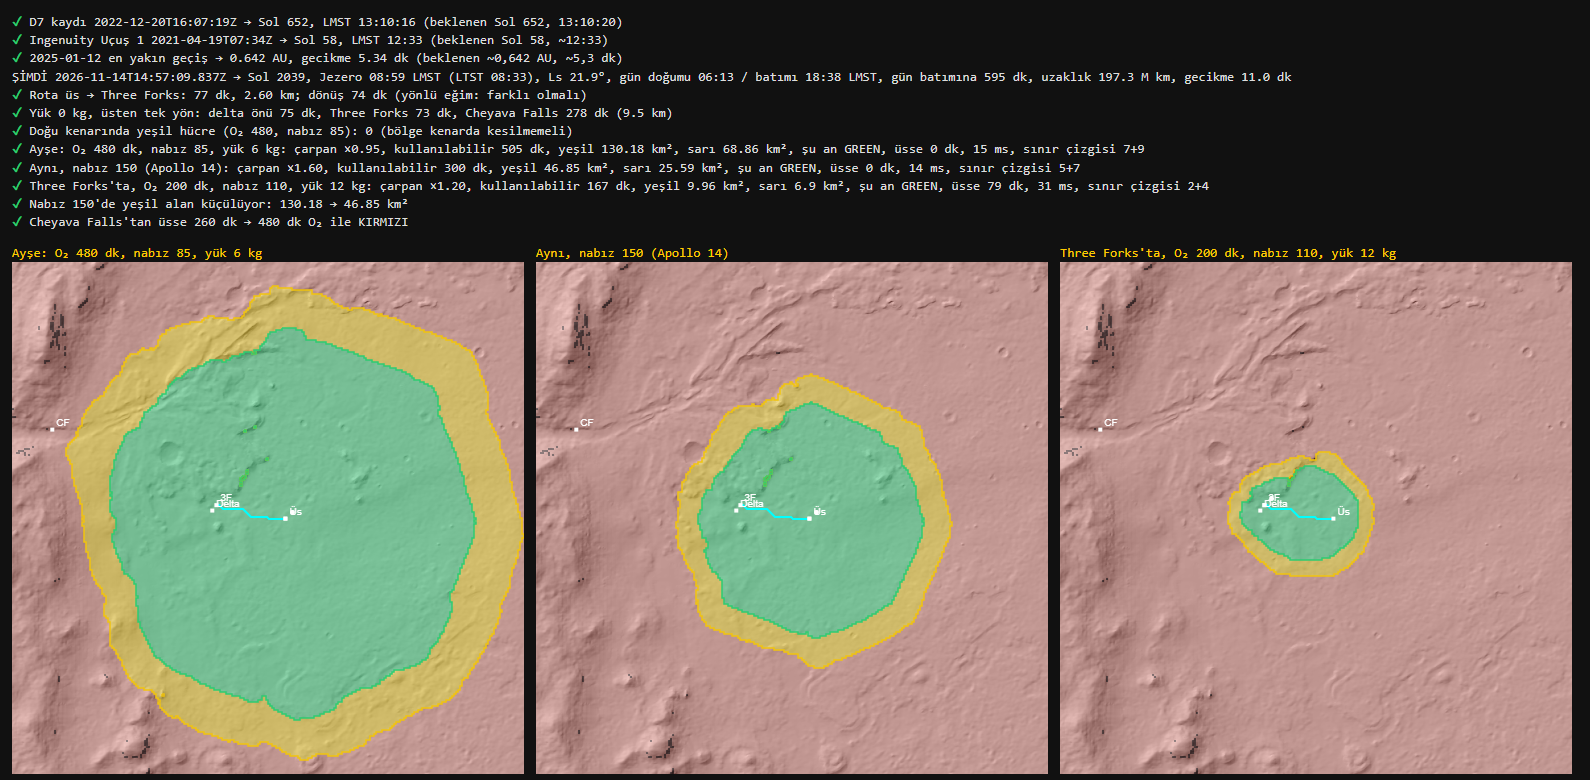
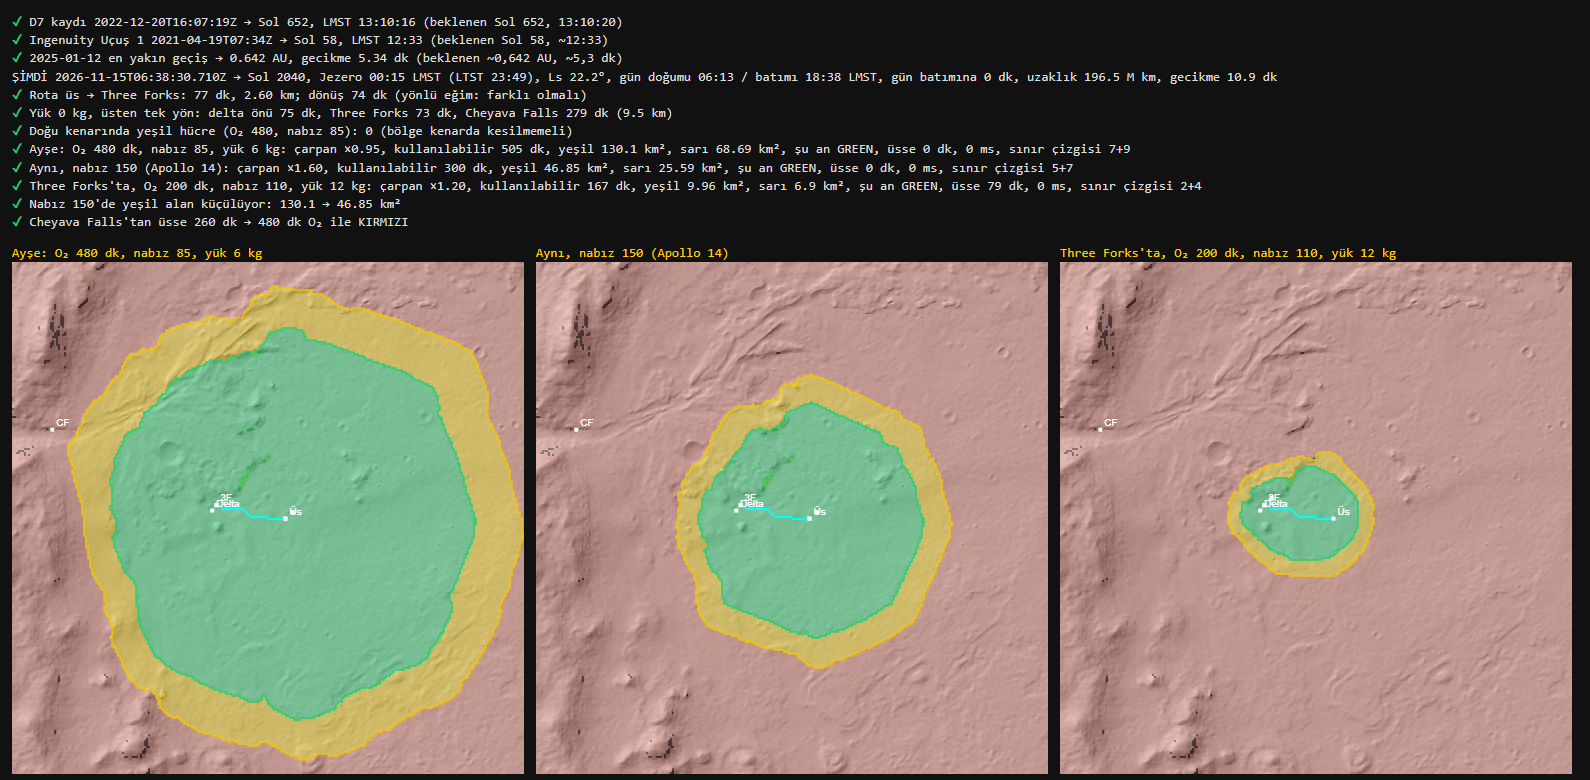
Teslim: form cevapları v2 model/doğrulama sayılarıyla, Drive klasörü dosya listesi ve en iyi 8 görsel; e8_zones.png güncel grid ile

diff --git a/docs/TESLIM.md b/docs/TESLIM.md
@@ -1,8 +1,8 @@
 # MarsTrail – Teslim
 
-Teslim formu için taslak cevaplar, kaynak listeleri, YZ beyanı ve Drive kontrol listesi. `[...]` ile işaretli yerler son gün doldurulacak (YOLO sonuçları, linkler).
+Teslim formu için cevaplar, kaynak listeleri, YZ beyanı ve Drive klasörü. Model ve doğrulama sayıları v2 modelinin (`e6v2_s2`, 250 karo); hepsi `docs/figures/*.json` dosyalarından. `[...]` ile işaretli yerler (linkler) teslimden önce doldurulacak.
 
-## 1. Form cevapları (taslak)
+## 1. Form cevapları
 
 ### Proje ne yapıyor?
 
@@ -13,14 +13,16 @@ MarsTrail, Mars'ta yüzeyde yürüyen bir astronotun yürüyüşünü hazırlık
 - **Yürüyüş:** Canlı O₂ takibi.
 - **Acil durum:** Telsiz koparsa arama alanı ve İHA tarama rotası.
 
-Haritada her zaman açık duran yeşil/sarı/kırmızı O₂ bölgeleri, astronotun nereye gidip güvenle dönebileceğini gösteriyor. Bölgeler daire değil; eğime, kuma ve zemine göre şekil alıyor. Nabız ya da yük değiştikçe canlı olarak daralıyor.
+Haritada her zaman açık duran yeşil/sarı/kırmızı O₂ bölgeleri, astronotun nereye gidip güvenle dönebileceğini gösteriyor. Bölgeler daire değil; eğime, kuma ve zemine göre şekil alıyor. Nabız ya da yük değiştikçe canlı olarak daralıyor: Ayşe'nin nabzı 85'ten 150'ye çıkınca yeşil bölge 130 km²'den 47 km²'ye iniyor.
+
+Kum ve kayayı, 250 HiRISE karosunu kendimiz etiketleyerek eğittiğimiz bir YOLOv8 modeliyle 25 cm çözünürlükte buluyoruz. Haritayı Perseverance'ın gerçekten sürdüğü yolla doğruladık. Bu yol modele hiç verilmedi.
 
 ### Faydaları
 
 - Apollo'daki "walkback" kuralını sabit hız varsayımından çıkarıp araziye ve astronotun anlık durumuna bağlı hale getiriyor.
 - Dünya 3–22 dakika uzaktayken "geri dön" kararını yerinde, veriye dayanarak veriyor.
 - Onlarca göreve dağılmış yörünge ve yüzey verisini (CTX, HiRISE, THEMIS, USGS jeoloji, Perseverance konumları ve fotoğrafları) tek ekranda birleştiriyor.
-- Kum tuzaklarını önceden işaretliyor: termal eylemsizlik, eolyen birim ve kendi YOLO modelimiz. Opportunity ve Spirit'in başına gelen buydu.
+- Kum tuzaklarını önceden işaretliyor: termal eylemsizlik, eolyen birim ve kendi YOLO modelimiz. Opportunity ve Spirit'in başına gelen buydu. Doğrulamada rover'ın geçtiği 52 hücrenin hiçbiri modelimize göre kumlu değil; çevrede bu oran %49.
 - Her noktanın tarihçesi ve Perseverance'ın o noktadaki gerçek fotoğrafı, astronota "oraya varınca ne göreceğini" gösteriyor.
 
 ### Etkisi
@@ -32,7 +34,12 @@ Haritada her zaman açık duran yeşil/sarı/kırmızı O₂ bölgeleri, astrono
 ### Kullanılan araçlar
 
 - **Veri işleme:** Python, rasterio/GDAL, geopandas, shapely, pyproj, numpy, Pillow, matplotlib.
-- **Öğrenme:** Ultralytics YOLOv8 ve PyTorch (CUDA, RTX 5090); etiketleme Roboflow'da.
+- **Öğrenme:**
+  - Ultralytics YOLOv8 ve PyTorch (CUDA, RTX 5090); etiketleme Roboflow'da.
+  - 250 karo (640 × 640, 0,25 m/piksel), 2 sınıf: kaya ve kum dalgası.
+  - 5 kurulumluk ablation (yolov8m/s × 3/2 sınıf + karo sınıflandırıcı). Seçilen: YOLOv8s, 2 sınıf.
+  - Val'de (51 karo, eğitimde görülmemiş, komşusu da yok) mAP50 0,33; hücre düzeyinde dengeli doğruluk 0,78.
+  - 1146 karoda çıkarım 17 sn.
 - **Web:** CesiumJS (3D Mars küresi), Chart.js, saf JavaScript. Mars Trek WMTS karoları.
 - **Algoritmalar:**
   - Tobler yürüme hızı (Mars ve giysi düzeltmesiyle)
@@ -49,7 +56,11 @@ Haritada her zaman açık duran yeşil/sarı/kırmızı O₂ bölgeleri, astrono
   - Opportunity'de kum dalgası (YOLO)
   - Spirit'te gevşek zemin (termal eylemsizlik)
 - O₂ bölgeleri sabit bir yarıçap değil; arazi maliyetine göre şekillenen ve astronotun nabzıyla nefes alan bir harita.
-- Kendi tehlike modelimiz, rover'ın gerçek yoluyla doğrulanıyor: Perseverance'ın geçtiği yer bizim haritamızda geçilebilir mi?
+- Kendi tehlike modelimizi rover'ın gerçek yoluyla doğruladık. Rover ekibi tehlikeli yerden geçmez; skorumuz araziyi doğru okuyorsa rotanın geçtiği hücreler daha kolay görünmeli.
+  - Görüntü verisi olmadan skor, HiRISE kapsamındaki rotayı ayırt edemiyordu (AUC 0,50, yazı-tura).
+  - YOLO eklenince AUC 0,65'e çıktı. Bootstrap'ta farkın aralığı +0,12…+0,18.
+  - Rotanın %100'ü haritamızda geçilebilir.
+- Modeli kutu çizmek için değil, 70 m'lik hücrede kum ve kaya yoğunluğu çıkarmak için kullanıyoruz: harita ölçeğinde ölçülen bir model.
 - Her pin bir zaman çizgisi: 2005'teki yörünge keşfinden Perseverance'ın o noktadaki Sol'üne ve fotoğrafına kadar.
 
 ### Dikkate alınan faktörler
@@ -64,10 +75,16 @@ Haritada her zaman açık duran yeşil/sarı/kırmızı O₂ bölgeleri, astrono
 - **İletişim:** Dünya–Mars gecikmesi, habitat ağı bağlantısı.
 - **Veri kalitesi:**
   - 3 farklı projeksiyon tek sisteme getirildi.
-  - NoData temizliği, %2–98 normalizasyon.
+  - NoData temizliği: HiRISE'ta 2590 karonun 1444'ü boştu, atıldı. Termal veri %2–98 dilimleriyle 0–1'e normalize edildi.
   - Kaynak haritadaki 2 hata düzeltildi.
+  - **Veri sızıntısı önlendi:** Komşu karolar train/val'de aynı tarafa kondu. İlk bölmede 30 val karosunun 8'inin bir train karosuna bitişik olduğu bulundu ve düzeltildi. Perseverance rotası (D2) yalnızca doğrulamada kullanıldı.
+  - Model seçimi için karar kuralı, sonuçlar görülmeden yazıldı.
   - Ayrıntı: [DATA_PIPELINE.md](DATA_PIPELINE.md).
-- **Sınırlar:** Formüllerdeki katsayılar varsayım; gerçek EVA verisiyle kalibre edilmedi. Demoda konum simüle ediliyor.
+- **Sınırlar:**
+  - Formüllerdeki katsayılar varsayım; gerçek EVA verisiyle kalibre edilmedi. Demoda konum simüle ediliyor.
+  - YOLO yalnızca 25 cm'lik mozaiğin kapsadığı ~29 km²'de çalışıyor. Rotanın 397 hücresinin 52'si bu kapsamda.
+  - Kaya tespiti rotayı ayırt etmiyor (AUC 0,51).
+  - 1. parti etiketlerde küçük çukur kümeleri tutarlı değil.
 
 ## 2. NASA verileri ve kaynakları
 
@@ -174,3 +191,46 @@ Bu projede **Claude Code** (Anthropic, Claude Opus 5.5) kodlama asistanı olarak
 - [ ] Logo kontrolü: slaytlarda, videoda ve uygulamada NASA logosu, bayrağı veya görev arması **yok**. Kaynaklar metin olarak var.
 - [ ] Ekip adları ve rolleri (Elif: veri, model, algoritmalar · Gözde: arayüz).
 - [ ] Formdaki bütün alanlar dolduruldu. 13:30'da teslim edildi (son saat 14:00).
+
+## 6. Drive klasörüne konacak dosyalar
+
+Klasör adı: `MarsTrail_SpaceApps_Konya_2026`. Büyük ham veri (D1–D8 zip ve tif dosyaları, model ağırlıkları, etiketli karolar) konmaz; linkleri bölüm 2'de, betikler repoda.
+
+```
+MarsTrail_SpaceApps_Konya_2026/
+├── 00_OKU_BENI.txt                  uygulama linki, repo linki, ekip ve roller, klasörün içeriği (5–6 satır)
+├── 01_Sunum/
+│   ├── MarsTrail_Sunum.pdf          7 slayt (docs/SLAYTLAR.md'den)
+│   └── MarsTrail_Sunum.pptx         düzenlenebilir kaynak (ya da Google Slides linki)
+├── 02_Demo/
+│   └── MarsTrail_Demo.mp4           ≤ 30 sn
+├── 03_Belgeler/
+│   ├── TESLIM.pdf                   form cevapları, NASA verileri, kaynaklar, YZ beyanı (bu dosya)
+│   ├── DATA_PIPELINE.pdf            veri hattı: 8 veri seti, atılanlar, normalizasyon, model, doğrulama
+│   └── SLAYTLAR.md                  konuşma metni ve jüri soruları (isteğe bağlı)
+├── 04_Gorseller/                    en iyi 8 görsel (aşağıdaki tablo)
+└── 05_Ekran_Goruntuleri/            ui_1 … ui_6 (docs/figures/ui_*.png)
+```
+
+**En iyi 8 görsel** (`docs/figures/` içinden; klasörde numaralı adlarla):
+
+| # | Klasördeki ad | Kaynak dosya | Ne gösteriyor | Sunum |
+| --- | --- | --- | --- | --- |
+| 1 | `1_dogrulama_perseverance.png` | `e10_validation.png` | Perseverance rotası ile doğrulama: HiRISE AUC 0,498 → 0,649, kum yoğunluğu rota/rota dışı | Slayt 6 |
+| 2 | `2_model_v1_v2.png` | `e6v2_compare.png` | v1 ve v2 modeli aynı val'de: mAP50 0,31 → 0,33, hücre dengeli doğruluk 0,69 → 0,78 | Slayt 4 |
+| 3 | `3_ornek_tespitler.jpg` | `e6v2_s2_val_batch0_pred.jpg` | Val karolarında kaya ve kum dalgası tespitleri | Slayt 4 |
+| 4 | `4_fuzyon_skoru.png` | `fusion.png` | Dört girdi ve ağırlıkları → geçilebilirlik skoru | Slayt 4 |
+| 5 | `5_o2_bolgeleri.png` | `e8_zones.png` | O₂ bölgeleri: nabız 85 → 150, yeşil 130 → 47 km² | Slayt 4 |
+| 6 | `6_termal_normalizasyon.png` | `d4_thermal_normalize.png` | Önce/sonra: ham termal eylemsizlik → %2–98 normalizasyon | Slayt 3 |
+| 7 | `7_jeoloji_kirpma.png` | `d6_geology_crop.png` | Önce/sonra: 1304 poligon → 118 poligon, 1024² ızgara | Slayt 3 |
+| 8 | `8_sizintisiz_bolme.png` | `e6v2_split.png` | Train/val bölmesi: bitişik karolar aynı tarafta (sızıntı yok) | Soru-cevap |
+
+Seçim ölçütü: jürinin baktığı dört konuya (temizleme, normalizasyon, öğrenme yöntemi, doğrulama) birer kanıt ve ürünün iki çekirdek çıktısı (füzyon skoru, O₂ bölgeleri). `e8_zones.png` güncel grid ile yeniden çekildi (Cheyava Falls 279 dk).
+
+**Ekran görüntüleri** (`05_Ekran_Goruntuleri/`): `ui_1_plan_go.png`, `ui_2_plan_nogo.png`, `ui_3_walk.png`, `ui_4_rescue.png`, `ui_5_phone_plan.png`, `ui_6_phone_rescue.png`.
+
+**Linkler** (`00_OKU_BENI.txt` ve formda):
+- Repo: https://github.com/tayancelifnur/marstrail
+- Uygulama: https://tayancelifnur.github.io/marstrail/ [repo ayarında Pages açılınca çalışır; G9 notu. Telefonda denenecek]
+
+**PDF'e çevirme:** `TESLIM.md` ve `DATA_PIPELINE.md`, VS Code'un Markdown önizlemesinden ya da GitHub'daki görünümden yazdırılarak PDF yapılabilir. Görseller göreli yol (`figures/…`) kullandığı için PDF'i repo içinden üretin.

diff --git a/docs/LOG.md b/docs/LOG.md
@@ -447,3 +447,12 @@ Her kartın sonunda: kart, saat, ne yapıldı, değişen dosyalar, nasıl çalı
   - Mesajdaki "168 dk", yuvarlama hizalanınca karttaki 169 dk ile aynı oldu.
   - Geç fark etme: 0/20/40 dk → üste 201/169/136 dk; 60 dk → yedek tüple 21 dk; 90 ve 120 dk → MÜMKÜN DEĞİL (eski kural 120 dk'da "kurtarılabilir" diyordu).
   - Ana sayfa headless yüklendi, JS hatası yok.
+
+## Teslim · Form cevapları v2 sayılarıyla + Drive dosya listesi · Paz 15 Kas 2026, 09:50
+
+- **Ne yapıldı:**
+  - `docs/TESLIM.md` bölüm 1'deki form cevaplarına v2 modelinin sayıları eklendi: 250 karo, mAP50 0,33, hücre dengeli doğruluk 0,78, HiRISE AUC 0,50 → 0,65, rotada kumlu hücre %0'a karşı çevrede %49. Ayrıca sızıntı önleme ve önceden yazılmış karar kuralı eklendi; sınırlar genişletildi.
+  - Yeni bölüm 6: Drive klasör yapısı, en iyi 8 görsel (numaralı adlarla), ekran görüntüleri ve linkler.
+  - `docs/figures/e8_zones.png` güncel grid ile yeniden çekildi (Cheyava Falls 279 dk).
+- **Dosyalar:** `docs/TESLIM.md`, `docs/figures/e8_zones.png`
+- **Açık kalanlar:** Pages linki (repo ayarı), Gözde'nin YZ satırı (bölüm 4), sunum PDF'i ve video.
